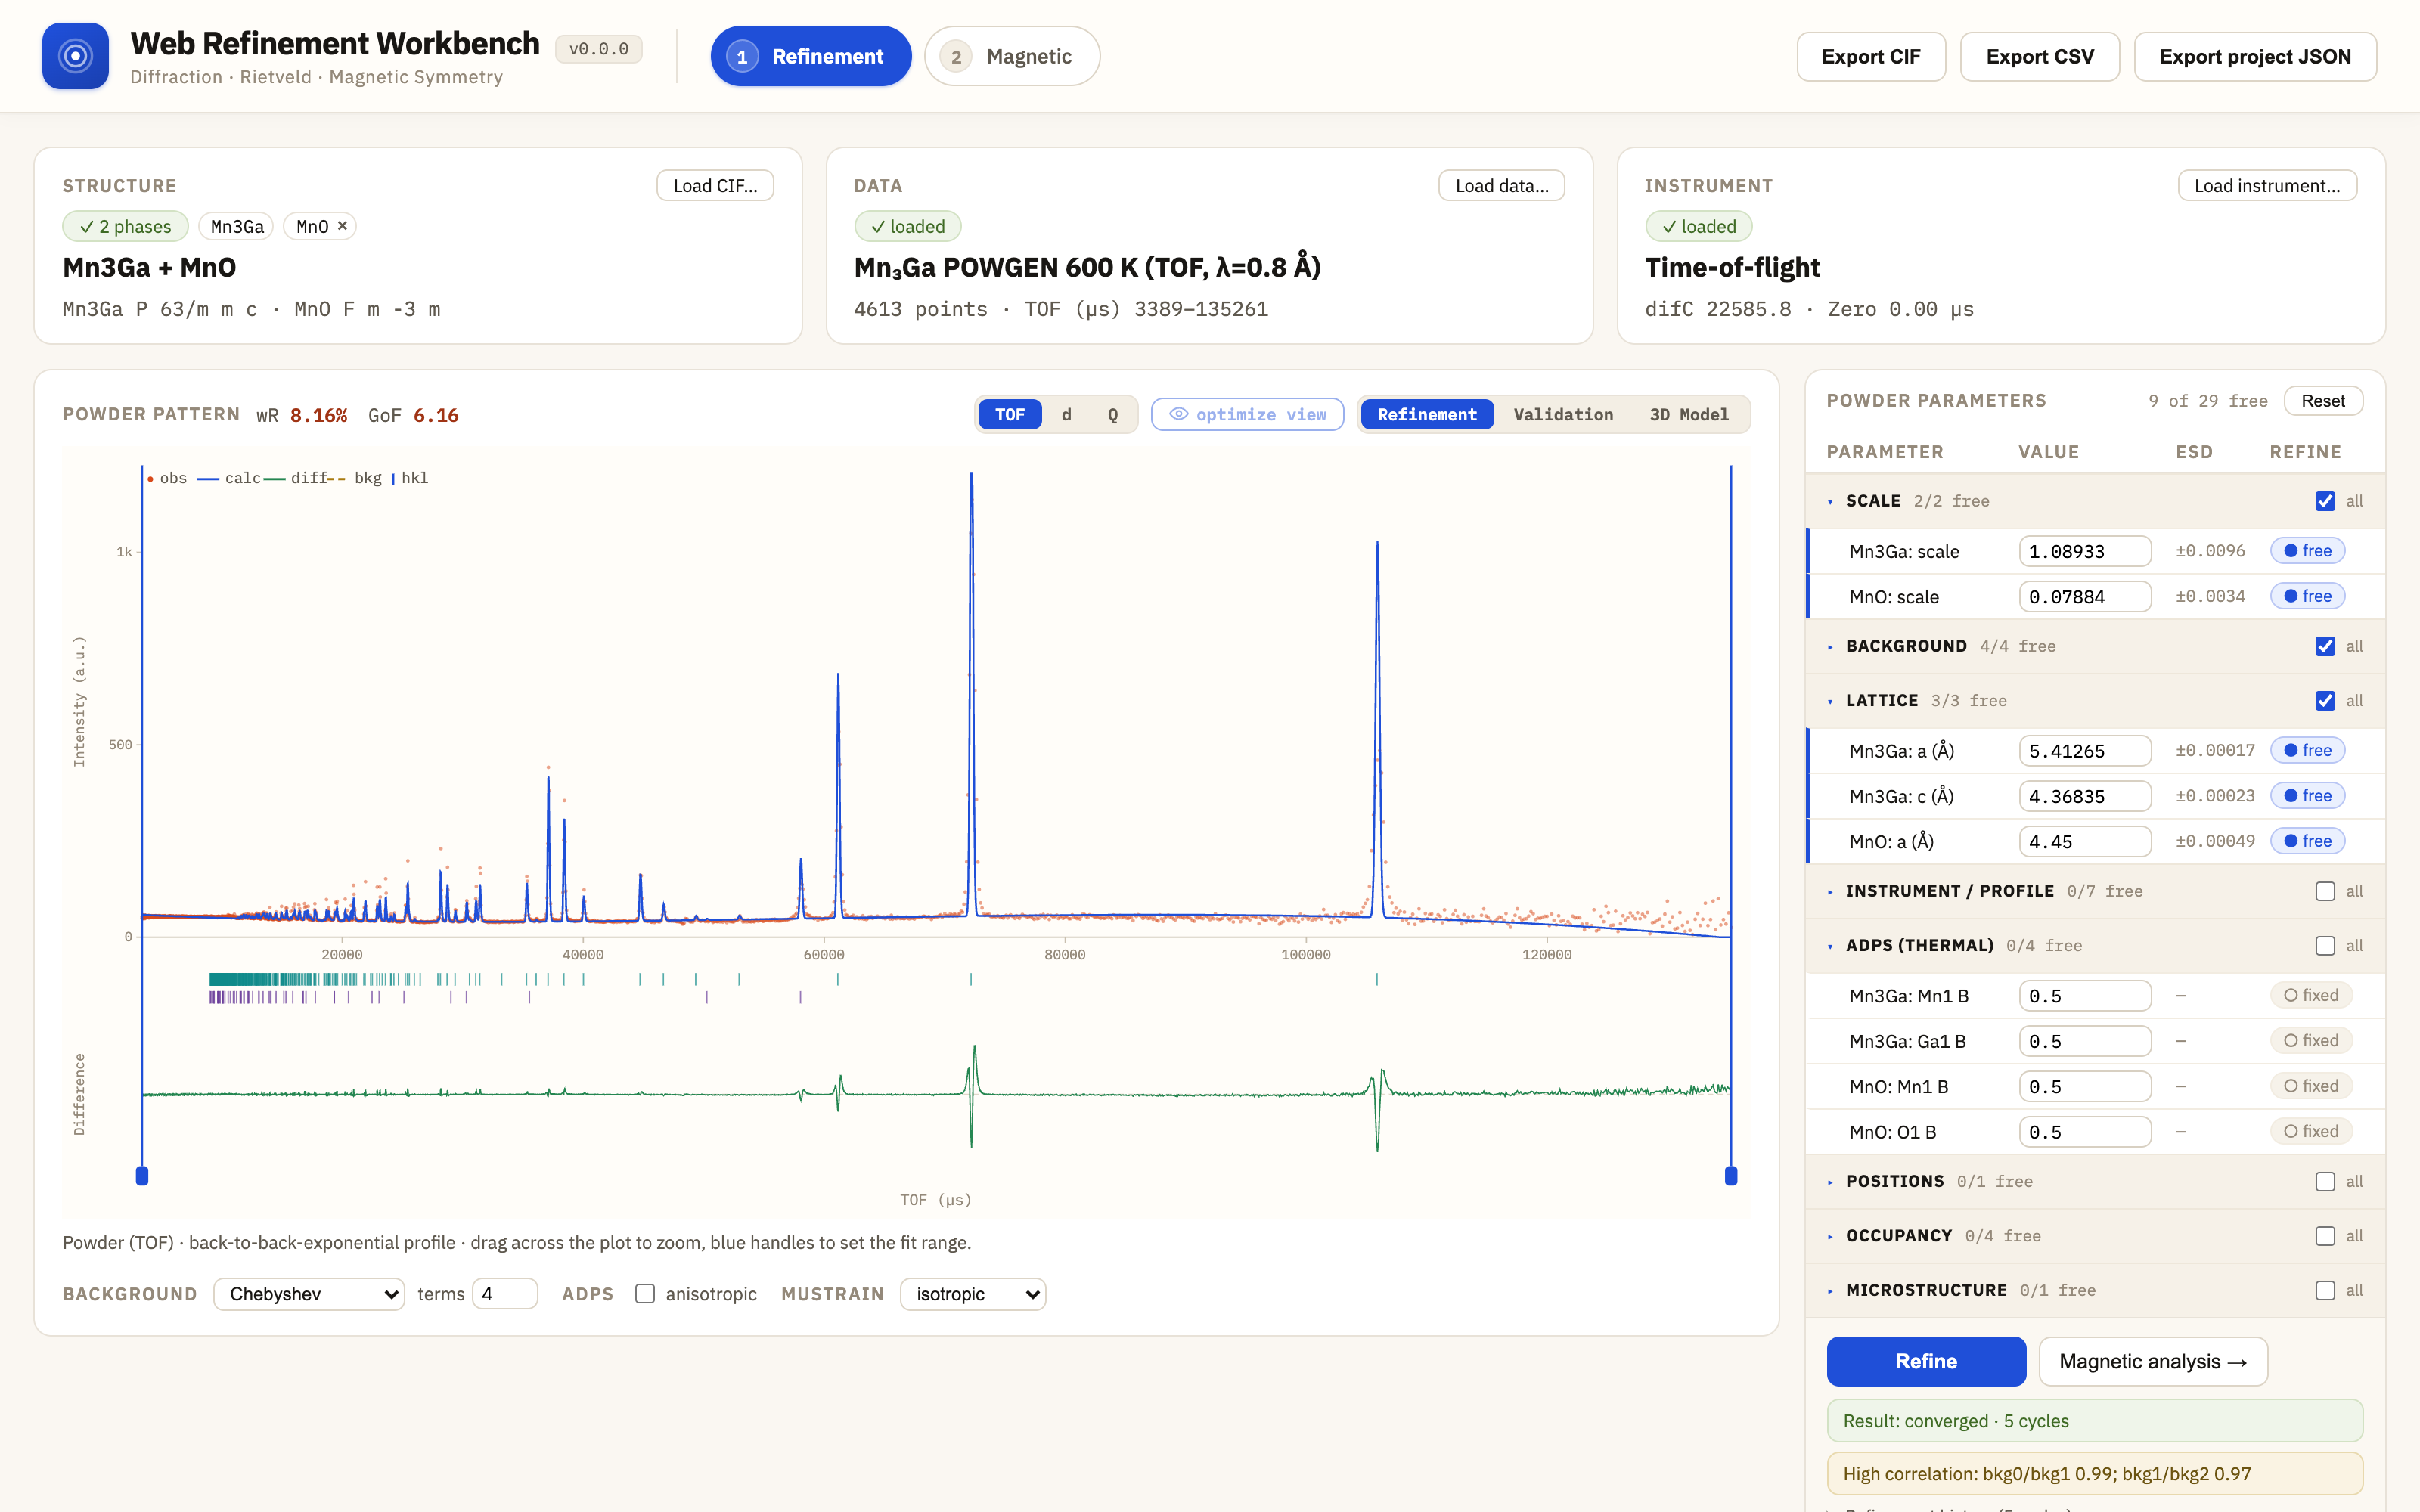
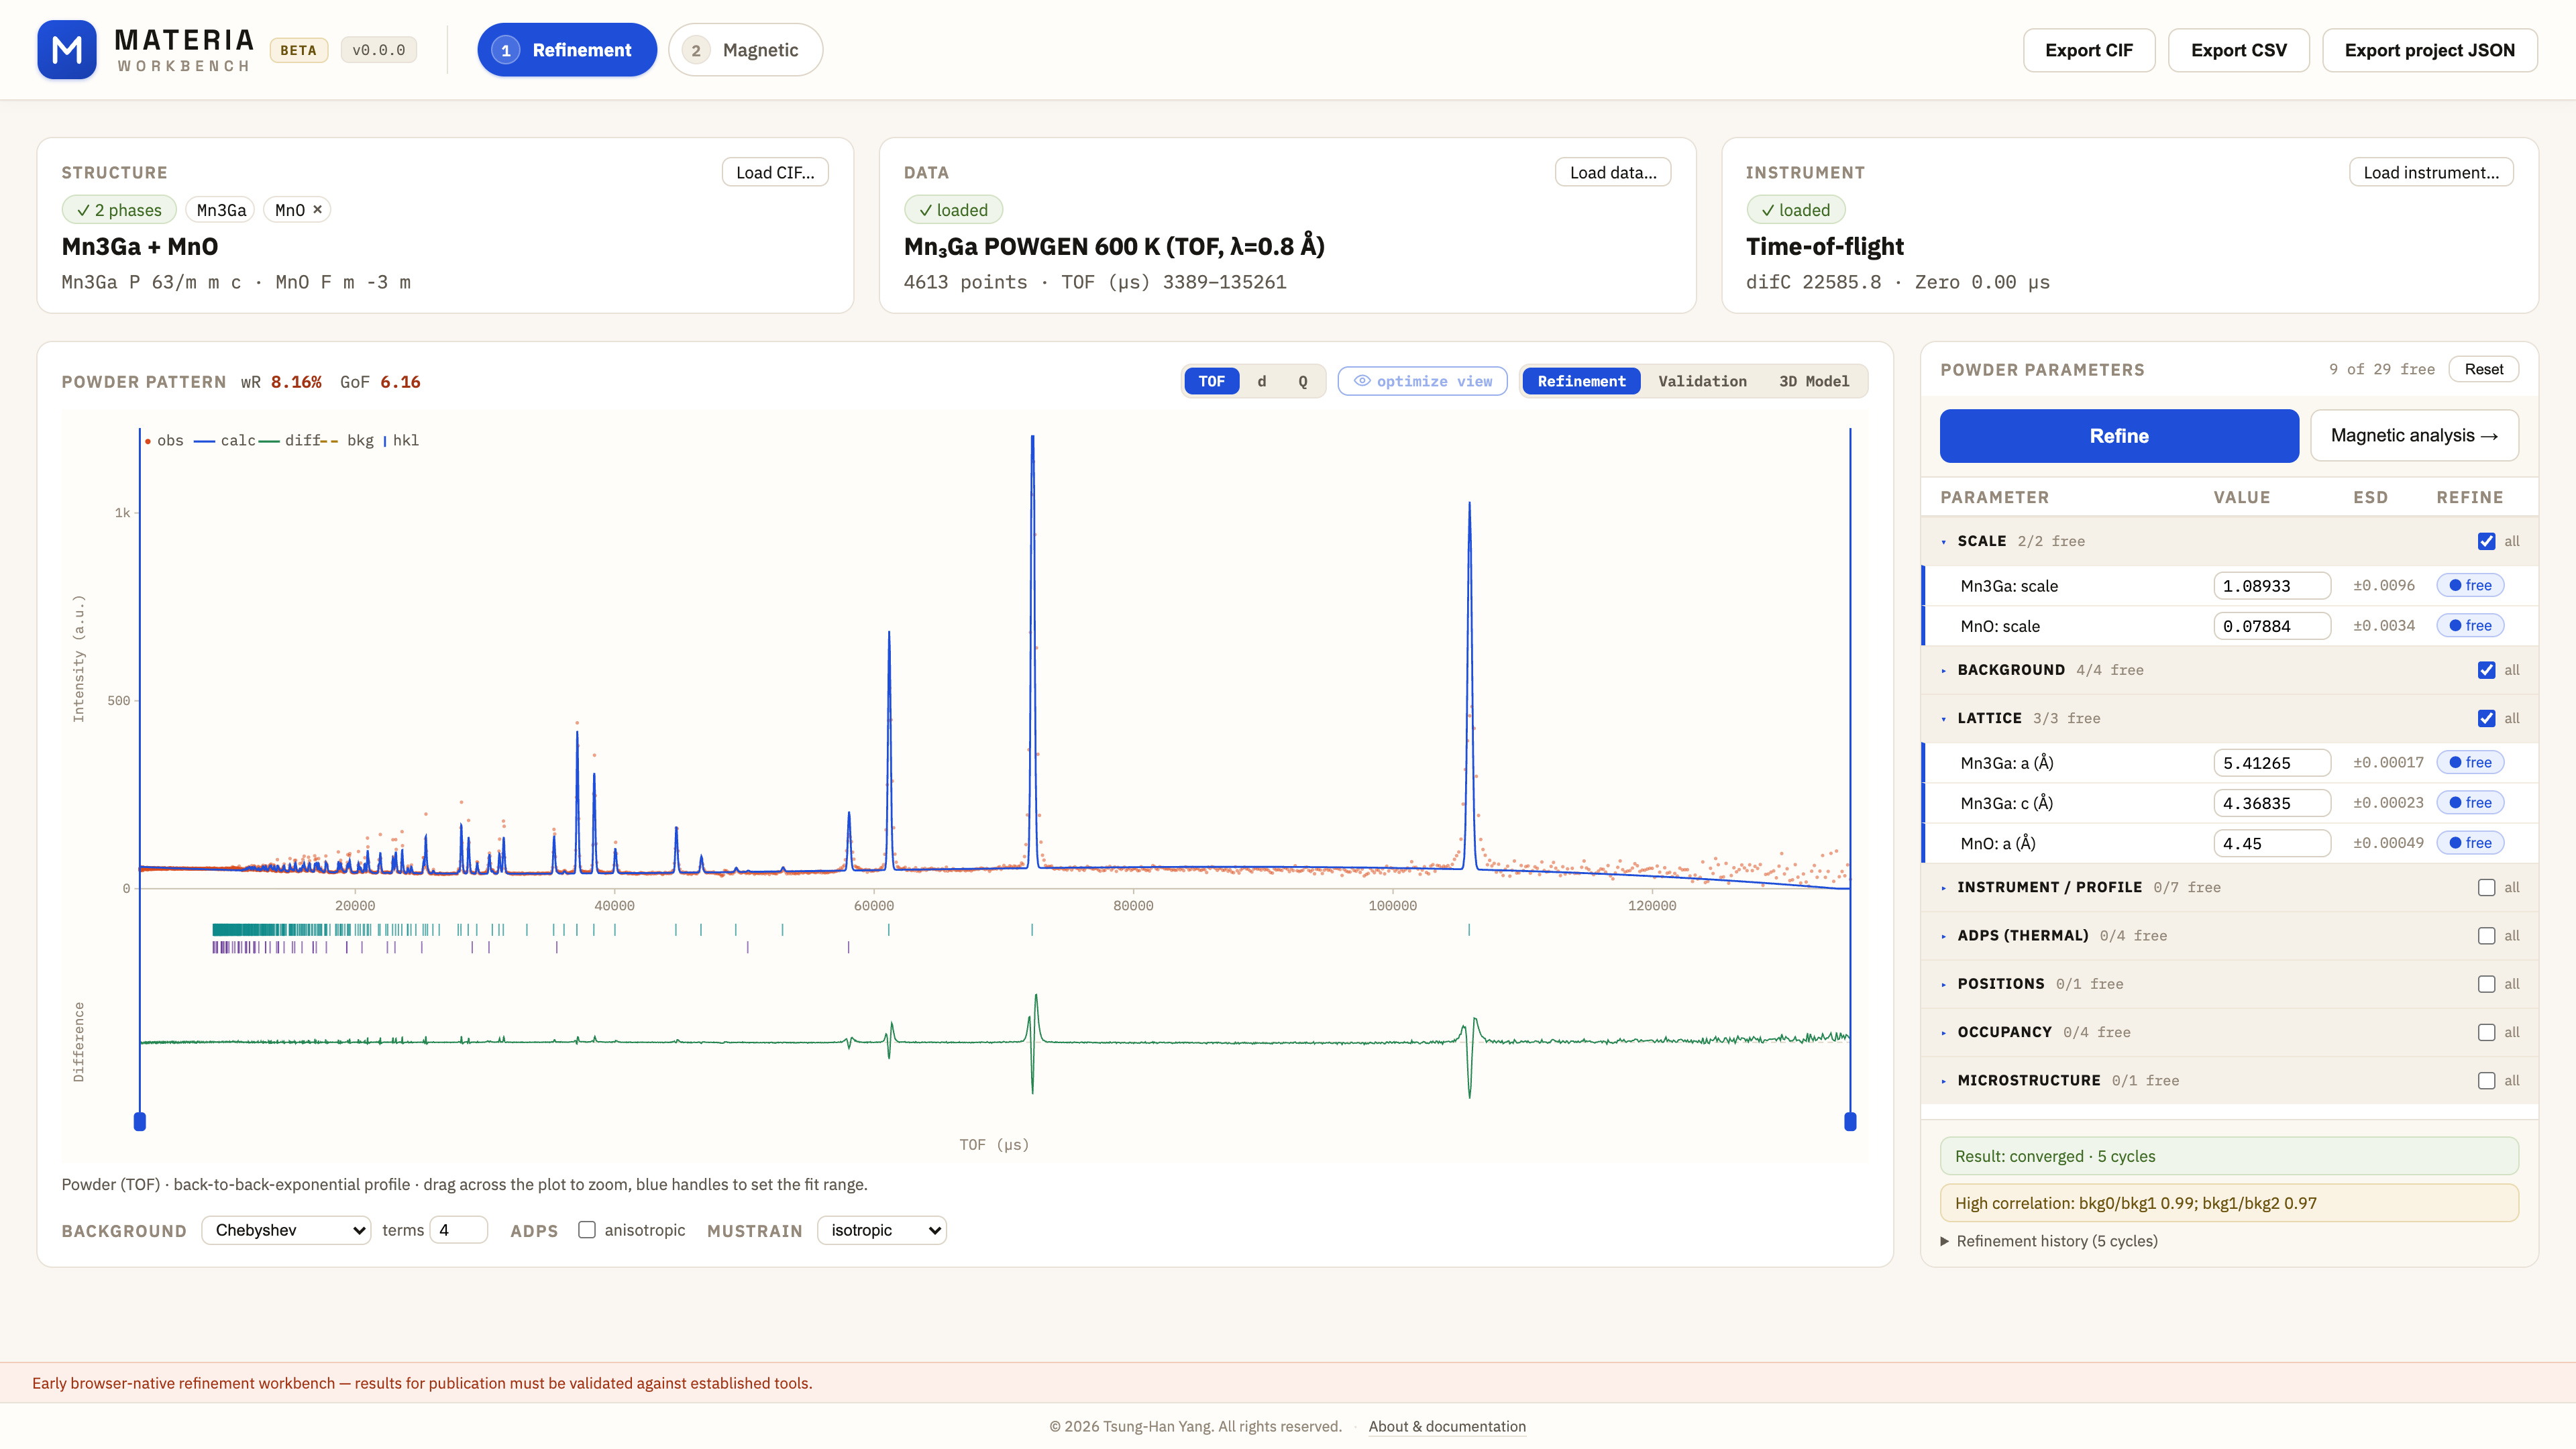
docs(readme): one wide desktop screenshot; MATERIA full-cap
- Brand the README title and lead as MATERIA Workbench (full-cap wordmark)
- Single 1920x1080@2x desktop hero shot - wide enough that no panel is
  squeezed - replacing the desktop/iPad/iPhone trio; drop the unused PNGs
- Screenshot script captures desktop only and expands the Scale + Lattice
  groups so refined values with esds stay visible (groups now start
  collapsed)

diff --git a/README.md b/README.md
@@ -1,11 +1,11 @@
-# Materia Workbench
+# MATERIA Workbench
 
 [![Live demo](https://img.shields.io/badge/demo-live-2563eb)](https://drthyang.github.io/web-refinement/)
 [![Status: beta](https://img.shields.io/badge/status-public%20beta-d97706)](docs/LIMITATIONS.md)
 [![License: AGPL v3](https://img.shields.io/badge/license-AGPL--3.0-3c8c3c)](LICENSE)
 [![Runs in the browser](https://img.shields.io/badge/runs-in%20your%20browser-6b6b6b)](https://drthyang.github.io/web-refinement/)
 
-**Materia — an AI-native foundation for materials science.** Crystal and magnetic
+**MATERIA — an AI-native foundation for materials science.** Crystal and magnetic
 structure refinement that runs entirely in your browser, and is built from the
 core up to be driven by LLM agents as well as by people. This is its web
 workbench; the same pure core is exposed to agents as tools (see
@@ -16,17 +16,12 @@ fully static GitHub Pages app; nothing to install, and your data never leaves
 your machine.
 
 <p align="center">
-  <img src="docs/screenshots/desktop.png" alt="Desktop — two-phase Mn₃Ga + MnO Rietveld refinement of POWGEN time-of-flight data, converged at wR 8.16%: observed/calculated/difference curves, per-phase Bragg ticks, and the symmetry-allowed parameter table with esds" width="100%" />
-</p>
-<p align="center">
-  <img src="docs/screenshots/ipad.png" alt="iPad — magnetic symmetry analysis: the refined Mn₃Ga cell with symmetry-allowed moment arrows for a selected magnetic space group" width="66%" />
-  <img src="docs/screenshots/iphone.png" alt="iPhone — the same workbench on a phone: summary cards, converged fit, and the refinement plot in a single-column layout" width="23%" />
+  <img src="docs/screenshots/desktop.png" alt="Two-phase Mn₃Ga + MnO Rietveld refinement of POWGEN time-of-flight data, converged at wR 8.16%: observed/calculated/difference curves, per-phase Bragg ticks, and the symmetry-allowed parameter table with esds" width="100%" />
 </p>
 <p align="center"><sub>
-One workbench, any device: a converged two-phase TOF Rietveld fit on desktop,
-the magnetic symmetry analysis (moment preview for a selected Shubnikov group)
-on iPad, and the same session on a phone. Screenshots are generated from the
-live app by <code>scripts/device-screenshots.mjs</code>.
+A converged two-phase TOF Rietveld fit (Mn₃Ga + MnO impurity, POWGEN) in the
+workbench. The screenshot is generated from the live app by
+<code>scripts/device-screenshots.mjs</code>.
 </sub></p>
 
 ## The vision: refinement an agent can reason about